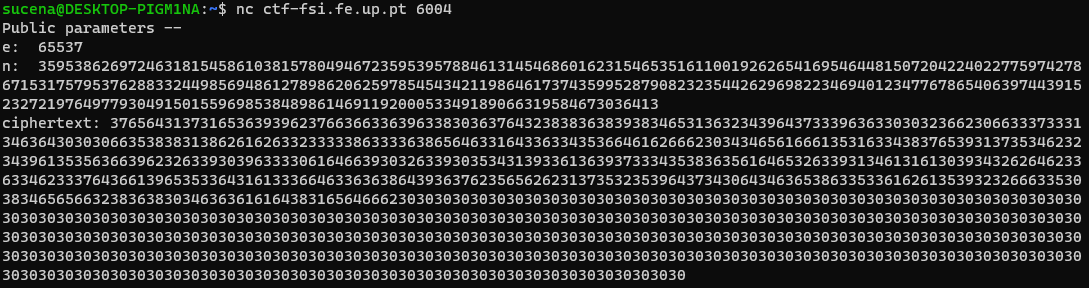
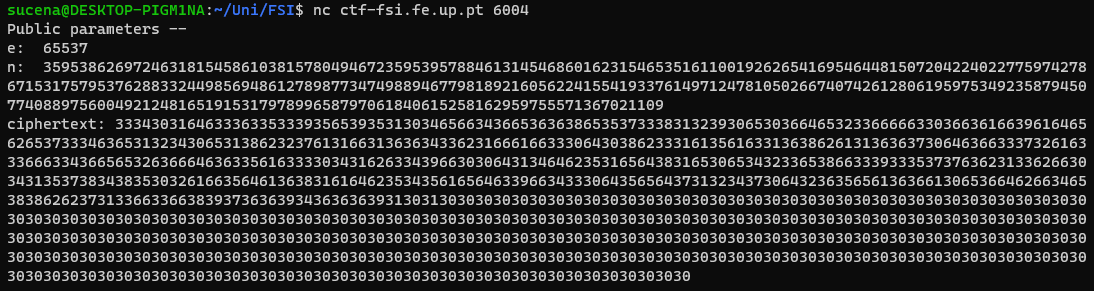
Update CTF11.md
Update section which details the attack.

diff --git a/CTFs/etc/exploit-CTF11.py b/CTFs/etc/exploit-CTF11.py
@@ -1,0 +1,42 @@
+import re # regex
+from binascii import hexlify, unhexlify
+
+from primes import isPrime
+
+
+def dec(y, d, n):
+    int_y = int.from_bytes(unhexlify(y), "little")
+    x = pow(int_y,d,n)
+    return x.to_bytes(256, 'little')
+
+# public key
+# public key
+e = 65537
+n = 359538626972463181545861038157804946723595395788461314546860162315465351611001926265416954644815072042240227759742786715317579537628833244985694861278987734749889467798189216056224155419337614971247810502667407426128061959753492358794507740889756004921248165191531797899658797061840615258162959755571367021109
+
+ciphertext = "3334303164633363353339356539353130346566343665363638653537333831323930653036646532336666633036636166396164656265373334636531323430653138623237613166313636343362316661663330643038623331613561633136386261313636373064636633373261633366633436656532636664636335616333303431626334396630306431346462353165643831653065343233653866333933353737636231336266303431353738343835303261663564613638316164623534356165646339663433306435656437313234373064323635656136366130653664626634653838626237313366336638393736363934363636393130313030303030303030303030303030303030303030303030303030303030303030303030303030303030303030303030303030303030303030303030303030303030303030303030303030303030303030303030303030303030303030303030303030303030303030303030303030303030303030303030303030303030303030303030303030303030303030303030303030303030303030303030303030303030303030303030303030303030303030303030303030303030303030303030303030303030303030303030303030303030303030303030303030303030303030303030303030303030303030303030303030303030303030303030303030"
+
+p = 2**512 + 1
+k = 3 # precision
+
+while True:
+	# determine if the current number is prime
+	if not isPrime(p, k):
+		p += 2
+		continue
+		
+	# compute the second prime
+	q = n // p
+	
+	# compute d
+	d = (e - 1) % ((p - 1) * (q - 1))
+	
+	# decrypt the message
+	msg = str(dec(ciphertext, d, n))
+	
+	# verify if the message corresponds to the flag
+	if re.search("flag{([0-9]|[a-z])+}", msg):
+		print(msg) # flag found!
+		break
+		
+	p += 2

diff --git a/CTFs/etc/primes.py b/CTFs/etc/primes.py
@@ -1,0 +1,92 @@
+# Python3 program Miller-Rabin primality test
+import random 
+ 
+# Utility function to do
+# modular exponentiation.
+# It returns (x^y) % p
+def power(x, y, p):
+     
+    # Initialize result
+    res = 1 
+     
+    # Update x if it is more than or
+    # equal to p
+    x = x % p 
+    while (y > 0):
+         
+        # If y is odd, multiply
+        # x with result
+        if (y & 1):
+            res = (res * x) % p
+ 
+        # y must be even now
+        y = y>>1 # y = y/2
+        x = (x * x) % p
+     
+    return res
+ 
+# This function is called
+# for all k trials. It returns
+# false if n is composite and 
+# returns false if n is
+# probably prime. d is an odd 
+# number such that d*2<sup>r</sup> = n-1
+# for some r >= 1
+def miillerTest(d, n):
+     
+    # Pick a random number in [2..n-2]
+    # Corner cases make sure that n > 4
+    a = 2 + random.randint(1, n - 4)
+ 
+    # Compute a^d % n
+    x = power(a, d, n)
+ 
+    if (x == 1 or x == n - 1):
+        return True
+ 
+    # Keep squaring x while one 
+    # of the following doesn't 
+    # happen
+    # (i) d does not reach n-1
+    # (ii) (x^2) % n is not 1
+    # (iii) (x^2) % n is not n-1
+    while (d != n - 1):
+        x = (x * x) % n
+        d *= 2
+ 
+        if (x == 1):
+            return False
+        if (x == n - 1):
+            return True
+ 
+    # Return composite
+    return False
+ 
+# It returns false if n is 
+# composite and returns true if n
+# is probably prime. k is an 
+# input parameter that determines
+# accuracy level. Higher value of 
+# k indicates more accuracy.
+def isPrime( n, k):
+     
+    # Corner cases
+    if (n <= 1 or n == 4):
+        return False
+    if (n <= 3):
+        return True
+ 
+    # Find r such that n = 
+    # 2^d * r + 1 for some r >= 1
+    d = n - 1
+    while (d % 2 == 0):
+        d //= 2
+ 
+    # Iterate given number of 'k' times
+    for i in range(k):
+        if (miillerTest(d, n) == False):
+            return False
+ 
+    return True
+
+# This code is contributed by mits

diff --git a/CTFs/CTF11.md b/CTFs/CTF11.md
@@ -12,7 +12,7 @@ The keys would then be the tuples below:
 * **Public key -** $(n, e)$
 * **Private key -** $(n, d)$
 
-The reliability of the RSA cipher comes from the fact that, given the product `n`, it is computationally unfeasible to deduce the two prime numbers, `p` and `q`, which are required to decrypt the message.
+The strength of the RSA cipher comes from the fact that, given the product `n`, it is computationally unfeasible to deduce the two prime numbers, `p` and `q`, which are required to decrypt the message.
 
 However, in this challenge, it is disclosed that $p \approx 2^{512}$ and $q \approx 2^{513}$, meaning that the possible values for the prime numbers were greatly diminished.
 
@@ -71,6 +71,12 @@ def dec(y, d, n):
 
 We swiftly realized that, if we could discover the **primes** `p` and `q` used to encrypt the flag, we would be able to use the "dec()" function to decrypt the ciphertext.
 
+## Computing Primes
+
+As seen in the section above, the key to solving this challenge was the computation of **prime numbers**. Since we would be working with very big integers, we would need an algorithm that could quickly yet reliably determine whether a number is prime.
+
+For that purpose, the guide recommended the [Miller-Rabin algorithm](https://en.wikipedia.org/wiki/Miller%E2%80%93Rabin_primality_test). Upon searching online, we found a [Python implementation](https://www.geeksforgeeks.org/primality-test-set-3-miller-rabin/) of said algorithm, which we opted to use. We placed it in a new Python script named "primes.py", which can be found [here](etc/primes.py).
+
 ## Preparing the Script
 
 Before writing our code, we needed a few variables: the **public key**, constituted by the exponent `e` and the product `n`, and the **ciphertext**. By connecting to the server, we obtained them as follows:
@@ -79,12 +85,66 @@ Before writing our code, we needed a few variables: the **public key**, constitu
 
 Next, we started writing our script. Its behaviour can be summarized like so:
 
-* Initialize all the necessary variables.
+1. Import the auxiliary functions defined in other scripts.
+
+```python
+import re # regex
+from binascii import hexlify, unhexlify
+
+from primes import isPrime
+
+
+def dec(y, d, n):
+    int_y = int.from_bytes(unhexlify(y), "little")
+    x = pow(int_y,d,n)
+    return x.to_bytes(256, 'little')
+```
+
+**Note:** We were having difficulties importing the decryption function from the "challenge.py" script, so we decided to just copy it directly into our script.
+
+2. Initialize the variables whose values we obtained from the server - the **public key** and the **ciphertext**.
 
 ```python
 # public key
 e = 65537
-n = 359538626972463181545861038157804946723595395788461314546860162315465351611001926265416954644815072042240227759742786715317579537628833244985694861278986206259785454342119864617374359952879082323544262969822346940123477678654063974439152327219764977930491501559698538489861469119200053349189066319584673036413
+n = 359538626972463181545861038157804946723595395788461314546860162315465351611001926265416954644815072042240227759742786715317579537628833244985694861278987734749889467798189216056224155419337614971247810502667407426128061959753492358794507740889756004921248165191531797899658797061840615258162959755571367021109
 
-ciphertext = 3765643137316536393962376636633639633830363764323838363839383465313632343964373339636330303236623066333733313463643030306635383831386261626332333338633336386564633164336334353664616266623034346561666135316334383765393137353462323439613535636639623263393039633330616466393032633930353431393361363937333435383635616465326339313461316130393432626462336334623337643661396535336431613336646336363864393637623565626231373532353964373430643463653863353361626135393232666335303834656566323836383034636361616438316564666230303030303030303030303030303030303030303030303030303030303030303030303030303030303030303030303030303030303030303030303030303030303030303030303030303030303030303030303030303030303030303030303030303030303030303030303030303030303030303030303030303030303030303030303030303030303030303030303030303030303030303030303030303030303030303030303030303030303030303030303030303030303030303030303030303030303030303030303030303030303030303030303030303030303030303030303030303030303030303030303030303030303030303030303030303030
+ciphertext = "3334303164633363353339356539353130346566343665363638653537333831323930653036646532336666633036636166396164656265373334636531323430653138623237613166313636343362316661663330643038623331613561633136386261313636373064636633373261633366633436656532636664636335616333303431626334396630306431346462353165643831653065343233653866333933353737636231336266303431353738343835303261663564613638316164623534356165646339663433306435656437313234373064323635656136366130653664626634653838626237313366336638393736363934363636393130313030303030303030303030303030303030303030303030303030303030303030303030303030303030303030303030303030303030303030303030303030303030303030303030303030303030303030303030303030303030303030303030303030303030303030303030303030303030303030303030303030303030303030303030303030303030303030303030303030303030303030303030303030303030303030303030303030303030303030303030303030303030303030303030303030303030303030303030303030303030303030303030303030303030303030303030303030303030303030303030303030303030303030303030303030"
 ```
+
+3. Compute the remaining variables required for the RSA algorithm.
+
+```python
+p = 2**512 + 1
+k = 3
+
+while True:
+	# determine if the current number is prime
+	if not isPrime(p, k):
+		p += 2
+		continue
+		
+	# compute the second prime
+	q = n // p
+	
+	# compute d
+	d = (e - 1) % ((p - 1) * (q - 1))
+
+    ...
+```
+
+4. Decrypt the ciphertext. Then, convert it into a string.
+
+```python
+msg = str(dec(ciphertext, d, n))
+```
+
+5. Verify if the decrypted message is the flag using a **regular expression**.
+
+```python
+if (re.search("flag{[A-Za-z0-9]+}", msg)):
+    print(msg) # flag found!
+    break
+```
+
+The finalized script can be found [here](etc/exploit-CTF11.py).

diff --git a/CTFs/CTF10.md b/CTFs/CTF10.md
@@ -40,7 +40,7 @@ Before writing our code, we needed a few variables: the **ciphertext** and the *
 
 Next, we started writing our script. Its behaviour can be summarized like so:
 
-* Initialize all the necessary variables.
+1. Initialize all the necessary variables.
 
 ```python
[1 lines of base64/hex data omitted]
@@ -49,7 +49,7 @@ nonce = "aab55d811f9e312a7cf589de98157163"
 offset = 3
 ```
 
-* Iterate through all the possible keys. Since only the last three bytes could be different from 0, the keys were all the numbers belonging to **[0, 2^24[**.
+2. Iterate through all the possible keys. Since only the last three bytes could be different from 0, the keys were all the numbers belonging to **[0, 2^24[**.
 
 ```python
 for i in range(2**24):
@@ -58,7 +58,7 @@ for i in range(2**24):
     ...
 ```
 
-* Decrypt the ciphertext using said keys. Then, convert it into a string.
+3. Decrypt the ciphertext using said keys. Then, convert it into a string.
 
 ```python
 msg = str(dec(key, unhexlify(ciphertext), unhexlify(nonce)))
@@ -66,7 +66,7 @@ msg = str(dec(key, unhexlify(ciphertext), unhexlify(nonce)))
 
 **Note:** As recommended by the guide, we used the `unhexlify()` function to convert the <u>ciphertext</u> and the <u>nonce</u> to bytes.
 
-* Verify if the decrypted message is the flag using a **regular expression**.
+4. Verify if the decrypted message is the flag using a **regular expression**.
 
 ```python
 if (re.search("flag{[A-Za-z0-9]+}", msg)):
